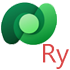
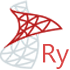
mssql v.3.0.11

diff --git a/src/RepositoryFramework.Infrastructures/RepositoryFramework.Infrastructure.MsSql/README.md b/src/RepositoryFramework.Infrastructures/RepositoryFramework.Infrastructure.MsSql/README.md
@@ -1,19 +1,25 @@
 ### [What is Rystem?](https://github.com/KeyserDSoze/RystemV3)
 
-## Integration with Dataverse (Dynamics) and Repository Framework
+## Integration with MsSql and Repository Framework
 
-     builder.Services.AddRepositoryDataverse<CalamityUniverseUser, string>(x =>
-        {
-            x.Prefix = "repo_";
-            x.SolutionName = "TestAlessandro";
-            x.Environment = configuration["ConnectionString:Dataverse:Environment"];
-            x.ApplicationIdentity = new(configuration["ConnectionString:Dataverse:ClientId"],
-                configuration["ConnectionString:Dataverse:ClientSecret"]);
-        })
-        .AddBusinessBeforeInsert<CalamityUniverseUserBeforeInsertBusiness>()
-        .AddBusinessBeforeInsert<CalamityUniverseUserBeforeInsertBusiness2>();
+     builder.Services.AddRepositoryInMsSql<Cat, Guid>(x =>
+            {
+                x.Schema = "repo";
+                x.ConnectionString = configuration["ConnectionString:Database"];
+            })
+            .WithPrimaryKey(x => x.Id, x =>
+            {
+                x.ColumnName = "Key";
+            })
+            .WithColumn(x => x.Paws, x =>
+            {
+                x.ColumnName = "Zampe";
+                x.IsNullable = true;
+            })
+            .AddBusinessBeforeInsert<CatBeforeInsertBusiness>()
+            .AddBusinessBeforeInsert<CatBeforeInsertBusiness2>()
 
-You found the IRepository<CalamityUniverseUser, string> in DI to play with it.
+You found the IRepository<Cat, Guid> in DI to play with it.
 
 ### Automated api with Rystem.RepositoryFramework.Api.Server package
 With automated api, you may have the api implemented with your dataverse integration.
